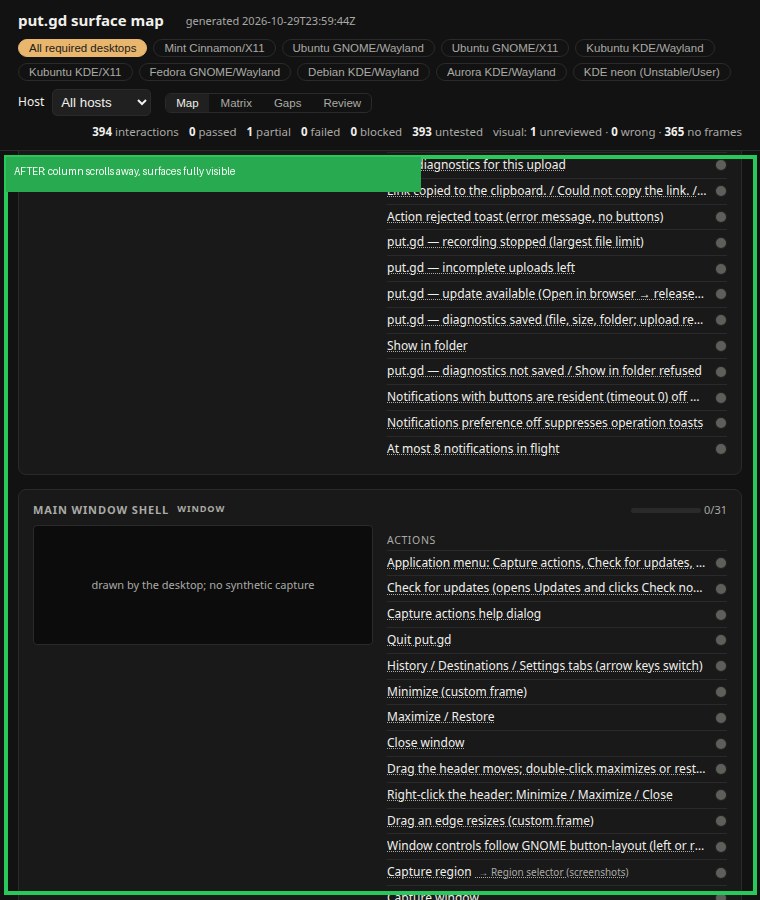
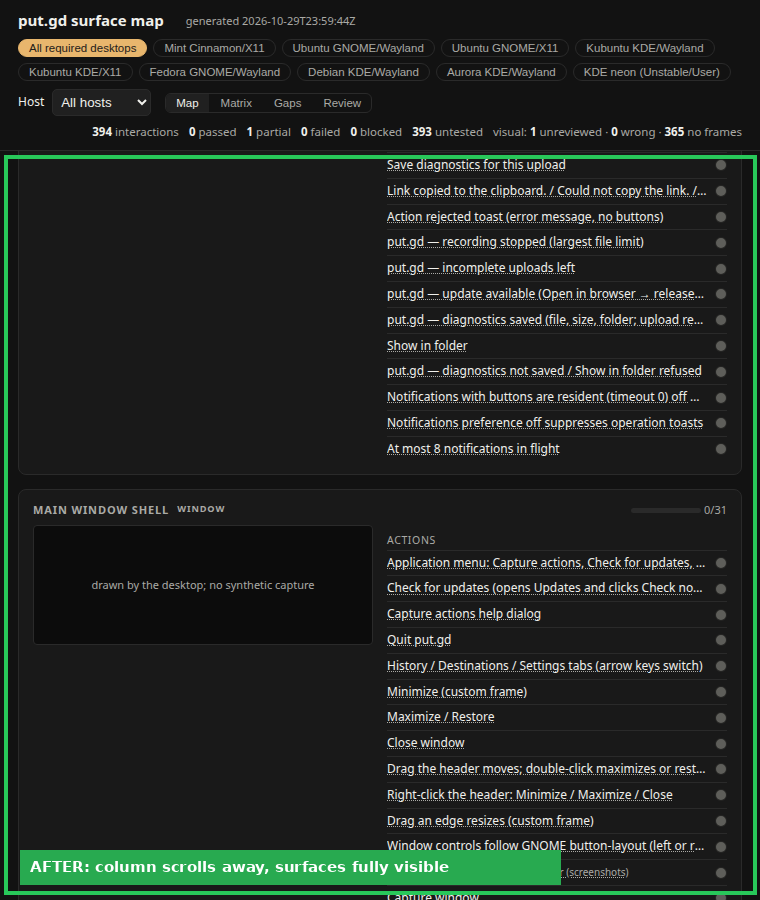
docs(evidence): readable labels on the narrow-layout pictures; scope the overflow note

Changed region(s): [[0.0303, 0.9333, 0.7566, 0.9956], [0.0, 0.1556, 0.575, 0.2178]]

diff --git a/docs/evidence/surface-map-hosts/narrow-layout/README.md b/docs/evidence/surface-map-hosts/narrow-layout/README.md
@@ -1,6 +1,6 @@
 # Narrow layout: left column
 
-At widths of 900px and below the map is one column. Before, the left column stayed sticky under the toolbar and covered the surfaces as you scrolled (red box). Now it scrolls away with the page and the page stays inside the window (green box). Wider layouts keep the sticky column under the measured toolbar.
+At widths of 900px and below the map is one column. Before, the left column stayed sticky under the toolbar and covered the surfaces as you scrolled (red box). Now it scrolls away with the page, and the Map, Gaps and Review views stay inside the window (green box). The Matrix view is a wide table and scrolls sideways at every width, as it does on nightly. Wider layouts keep the sticky column under the measured toolbar.
 
 Code: e4857ba46bf110b8046ad1b7b9b9d9840d3ab450 (PR #667). Rendered at 760x900, scrolled to y=3000, in headless Chromium.
 
